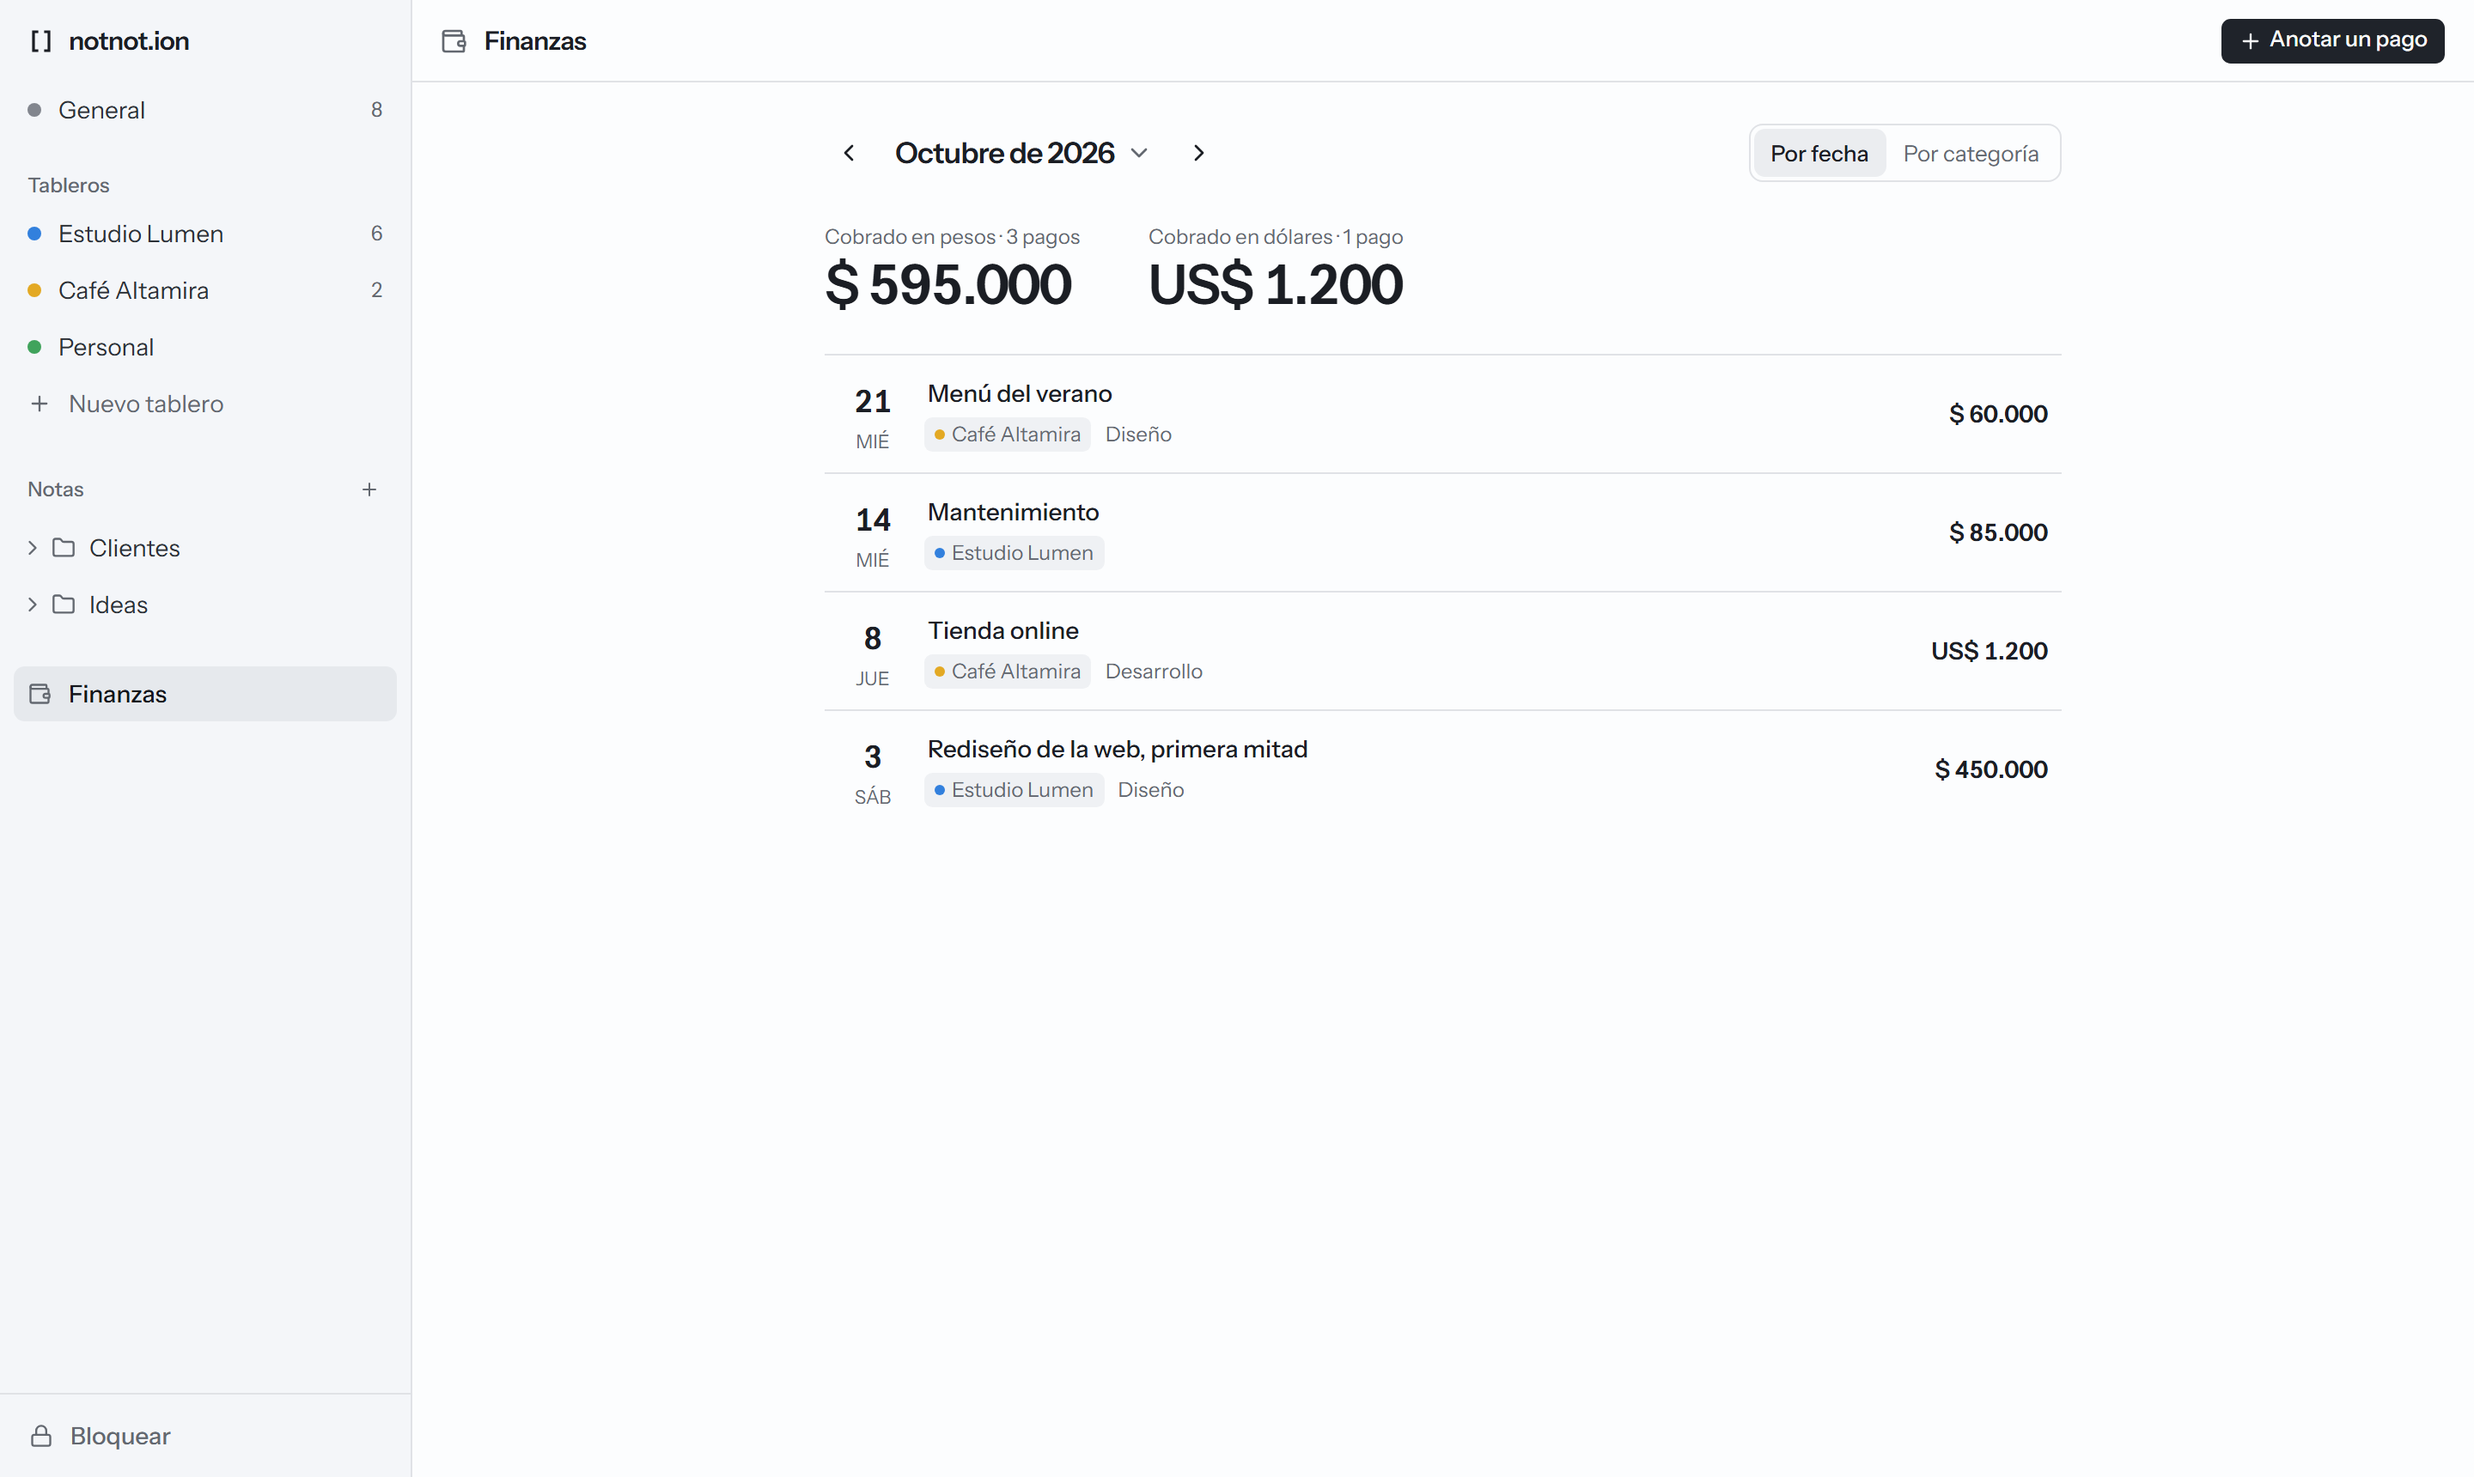
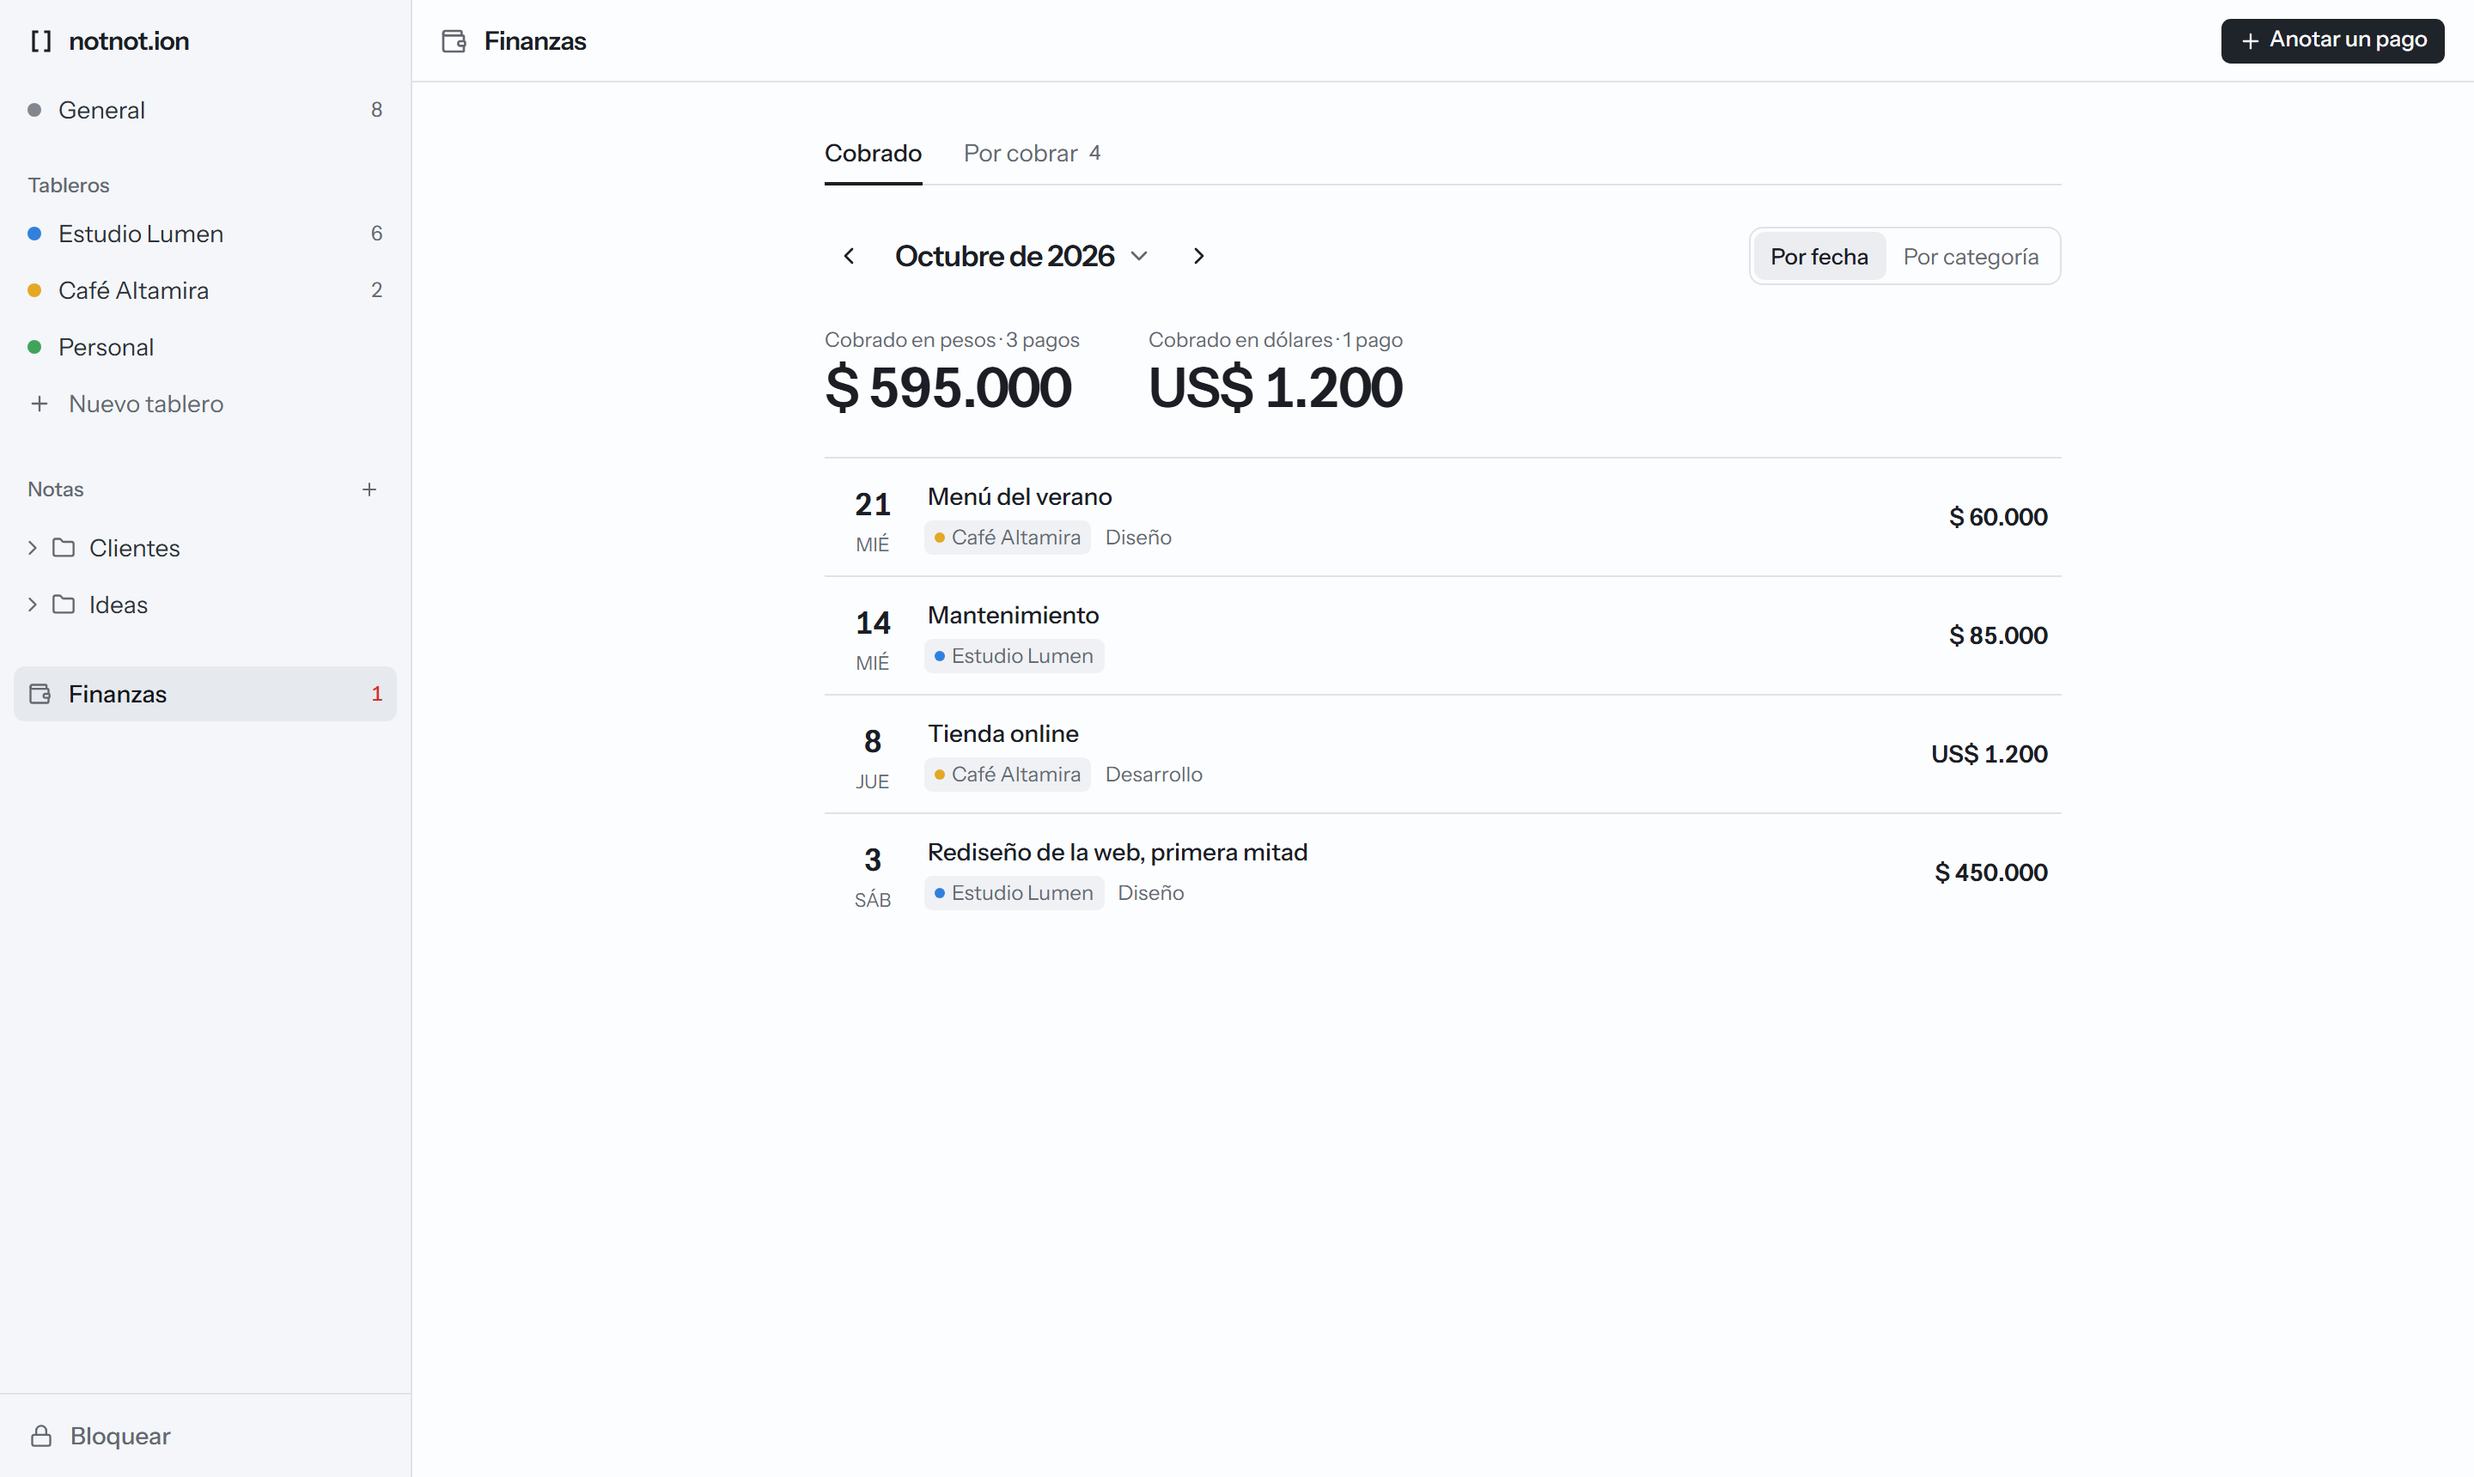
docs: receivables in the progress, README and screenshots

diff --git a/docs/PROGRESO.md b/docs/PROGRESO.md
@@ -2,7 +2,7 @@
 
 ## Fase actual
 
-**Fase 6 — Correcciones, imágenes, Notas y Finanzas: cerrada.** Las fases 0 a 6 están hechas y la app está en producción.
+**Fase 7 — Por cobrar y carpetas personalizadas: en curso.** El paso 1 (Por cobrar) está hecho; falta el paso 2 (carpetas con color e ícono). Las fases 0 a 6 están en producción.
 
 ## Hecho
 
@@ -65,6 +65,10 @@
 
 - **Paso 4, Finanzas.** Modelo `Payment` (migración `payments`: agrega la tabla, `Image.paymentId` y un CHECK para que cada imagen sea de una tarjeta o de un pago; `Image.taskId` pasa a opcional, sin tocar datos). `GET /payments?month=`, `GET /payments/summary`, `POST/PATCH/DELETE /payments/:id` y `POST /payments/:id/images` (la misma subida que las tarjetas). `parseAmount` (montos en formato argentino), `shiftMonth`, `totalsByCurrency` y `groupByCategory` en `shared`, con tests. En la web: "Finanzas" en la sidebar y `/finanzas/:mes` con el mes, los totales por moneda, la lista por fecha o por categoría y el formulario del pago con los comprobantes (reusa `ImageGallery`, `ImageViewer` y `useImageDrop`). e2e: `finance.spec.ts`. README con capturas nuevas (sección Notas y Finanzas, y las tarjetas nuevas).
 
+### Fase 7 — Por cobrar y carpetas personalizadas
+
+- **Paso 1, Por cobrar.** Modelo `Receivable` y `Payment.receivableId` (migración `receivables`: agrega la tabla y una columna opcional, sin tocar datos). `GET/POST /receivables` y `PATCH/DELETE /receivables/:id`; cada una viene con lo cobrado y sus pagos. Los pagos aceptan `receivableId` (en la misma moneda, si no 409). `remainingCents`, `daysBetween`, `groupReceivables` y `dueCount` en `shared`, con tests. En la web: Finanzas con pestañas **Cobrado** y **Por cobrar** (`/finanzas/por-cobrar`): lo que te deben por moneda, vencidas (marcadas), por vencer, sin fecha y las cobradas plegadas; "Me pagaron" abre el pago ya completo con lo que falta; el formulario de un pago deja vincularlo o desvincularlo; la sidebar muestra al lado de Finanzas cuánto vence hoy o ya venció. En el celu, el monto baja a su propia línea y "Me pagaron" queda como ícono. e2e: `receivables.spec.ts`. README con la captura nueva.
+
 ## Decisiones
 
 - **Versiones**: lo último estable que funciona junto. TypeScript 6.0 (typescript-eslint todavía no soporta TS 7), Prisma 7.10 (Prisma 8 está en RC), React Router 8 en modo data, Vite 8, Vitest 5, ESLint 10, Tailwind 4, Zod 4, shadcn CLI 4.
@@ -123,10 +127,16 @@
 - **Comprobantes de un pago nuevo**: se pueden pegar o adjuntar antes de guardar; esperan en la pantalla y se suben apenas se crea el pago.
 - **Categorías**: texto libre. Las sugerencias son las ya usadas (sin repetir mayúsculas/minúsculas) que contienen lo que vas escribiendo, como botones abajo del campo: no hay lista desplegable del sistema (la misma que se veía mal en Windows oscuro).
 - **Cliente**: los tableros activos (sin General). Si se borra el tablero, el pago queda "sin cliente".
+- **App para iPhone y Android**: es la PWA, instalada desde el navegador (como pediste, sin tiendas). Publicarla costaría la cuenta de Google Play (USD 25 una vez y, con una cuenta personal nueva, una prueba cerrada con 12 personas durante 14 días) y la de Apple (USD 99 por año, compilar en una Mac y el riesgo de que la rechacen por ser una web empaquetada), sin sumar nada para una app de una sola persona.
+- **Por cobrar sin avisos**: también lo elegiste así: alcanza con la lista (lo vencido arriba y marcado) y el número de la sidebar. Las notificaciones quedan en "Después" de la spec.
+- **Lo cobrado se calcula**: es la suma de los pagos vinculados, no un campo aparte, así nunca queda desfasado si se edita o borra un pago. Cuando cubren el monto, está cobrada (si pagaron de más, también; no hay saldo a favor). No hay "marcar como cobrada" a mano: para cerrar una con descuento se le baja el monto, y si ya no te la van a pagar, se borra (sus pagos quedan sueltos en Cobrado).
+- **Misma moneda**: un pago vinculado va en la moneda de lo que te deben (si no, la API da 409 y el formulario traba la moneda). Si te pagan en pesos algo que era en dólares, se anota el pago suelto y se ajusta o borra lo que te debían.
+- **Vencimientos**: el día lo pone el dispositivo, como el historial. El número de la sidebar cuenta lo que vence hoy además de lo vencido, para acordarte de reclamarlo ese mismo día.
+- **"Me pagaron"**: abre el mismo formulario de "Anotar un pago" con lo que falta, la moneda, el cliente y el concepto, y la fecha de hoy. Si fue una parte, se cambia el monto y queda el resto.
 - **Dev**: si corrés comandos de pnpm con la app levantada, pnpm 11 puede regenerar el cliente de Prisma y `node --watch` reinicia la API (algún pedido puede dar 502 en ese momento).
 
 ## Pendientes para vos
 
 - **Instalarla en el celu y en la compu** (ver "Instalarla" en el README). El código de producción te lo pasé por chat; no está en el repo.
-- **Probar en producción lo de la Fase 6** con tus datos: imágenes en una tarjeta, la sección Notas y un pago con comprobante. Las subidas las probé en el preview (mismo código, store de dev); en producción no puedo entrar porque no tengo el código.
+- **Probar en producción lo de las fases 6 y 7** con tus datos: imágenes en una tarjeta, la sección Notas, un pago con comprobante y algo por cobrar con "Me pagaron". Las subidas las probé en el preview (mismo código, store de dev); en producción no puedo entrar porque no tengo el código.
 - **Opcional**: en Vercel, los dos `BLOB_READ_WRITE_TOKEN` quedaron como variables "no sensibles" (así las creó el CLI). Si querés que no se puedan volver a leer desde el dashboard, marcalas como sensibles (Settings → Environment Variables).

diff --git a/README.md b/README.md
@@ -21,13 +21,16 @@ Un solo usuario, sin cuentas: la app se abre con un código. Funciona en la web 
 - **Notas en otra ventana**: el botón al lado de "Notas" las abre solas en una ventana chica, con un selector de tablero arriba, para tenerlas al costado en una reunión. En Windows, PowerToys la deja siempre encima con Win+Ctrl+T.
 - **Historial**: cada día arranca con "Hecho" vacío. Lo terminado antes de hoy pasa al Historial (botón en el header), agrupado por día; en General se ve el de todos los tableros.
 - **Sección Notas** (en la sidebar, abajo de los tableros): para lo que no es una tarea. Carpetas con carpetas adentro y notas con título y texto, que se guardan solas mientras escribís. Se crean, renombran, mueven ("Mover a…") y borran desde el "…" de cada una.
-- **Finanzas**: los pagos que te hicieron, en pesos o dólares, organizados por mes. Cada uno con fecha, monto, cliente (uno de los tableros), categoría, descripción y comprobantes. Arriba, lo cobrado en el mes por moneda; la lista se ve por fecha o agrupada por categoría.
+- **Finanzas → Cobrado**: los pagos que te hicieron, en pesos o dólares, organizados por mes. Cada uno con fecha, monto, cliente (uno de los tableros), categoría, descripción y comprobantes. Arriba, lo cobrado en el mes por moneda; la lista se ve por fecha o agrupada por categoría.
+- **Finanzas → Por cobrar**: lo que te deben, con el día que vence. Lo vencido queda arriba y marcado, y en la sidebar, al lado de Finanzas, ves cuánto vence hoy o ya venció. "Me pagaron" anota el pago ya completo (si fue una parte, cambiás el monto y queda lo que falta); cuando está todo, pasa a "Cobradas" con la lista de sus pagos.
 
 ![General: las tarjetas de todos los tableros por estado](docs/capturas/escritorio-general.png)
 
 | Sección Notas                                           | Finanzas                                                |
 | ------------------------------------------------------- | ------------------------------------------------------- |
 | ![Una nota abierta](docs/capturas/escritorio-notas.png) | ![Pagos del mes](docs/capturas/escritorio-finanzas.png) |
+
+![Por cobrar: lo vencido arriba, lo que falta y "Me pagaron"](docs/capturas/escritorio-por-cobrar.png)
 
 ## Stack
 
